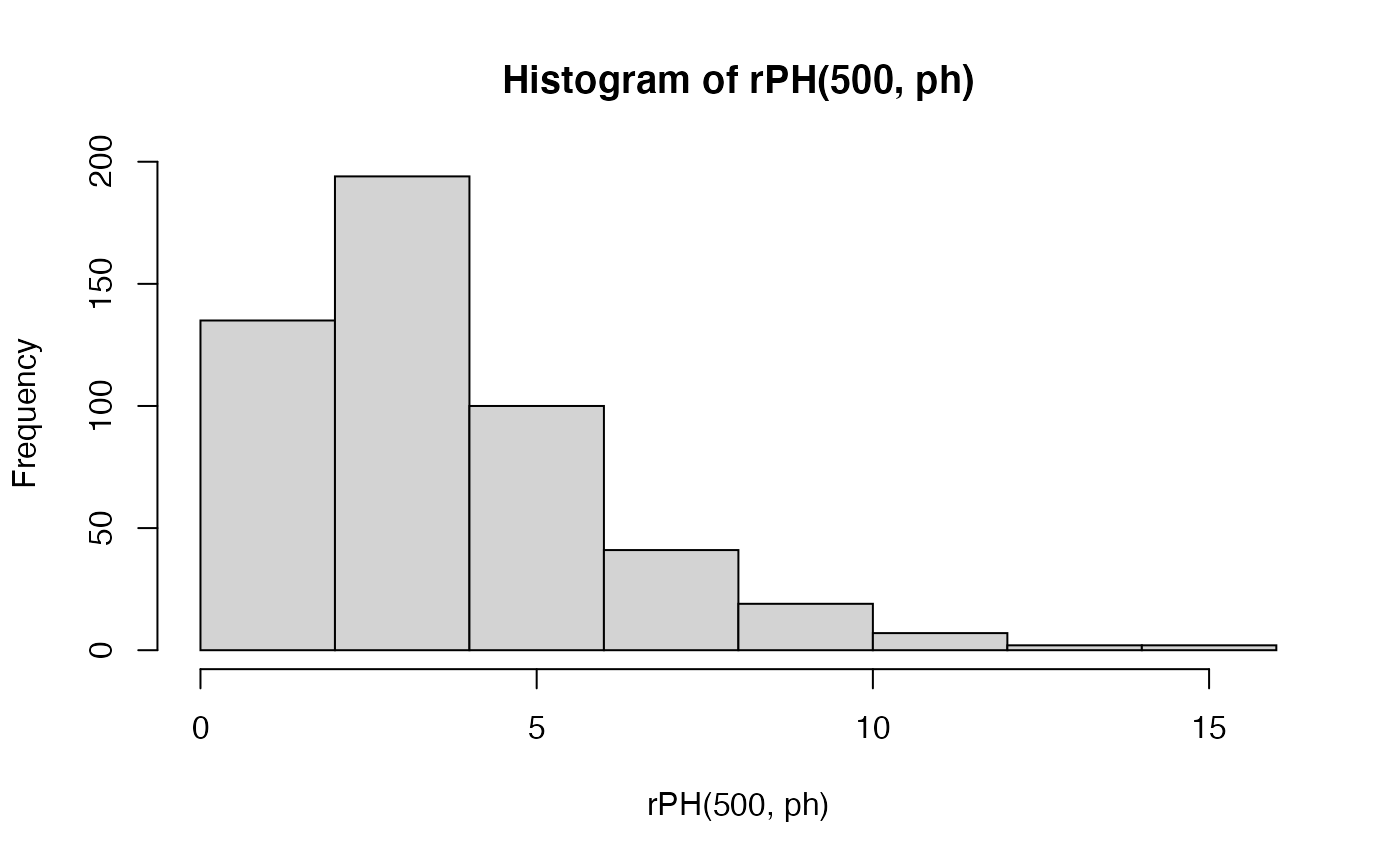
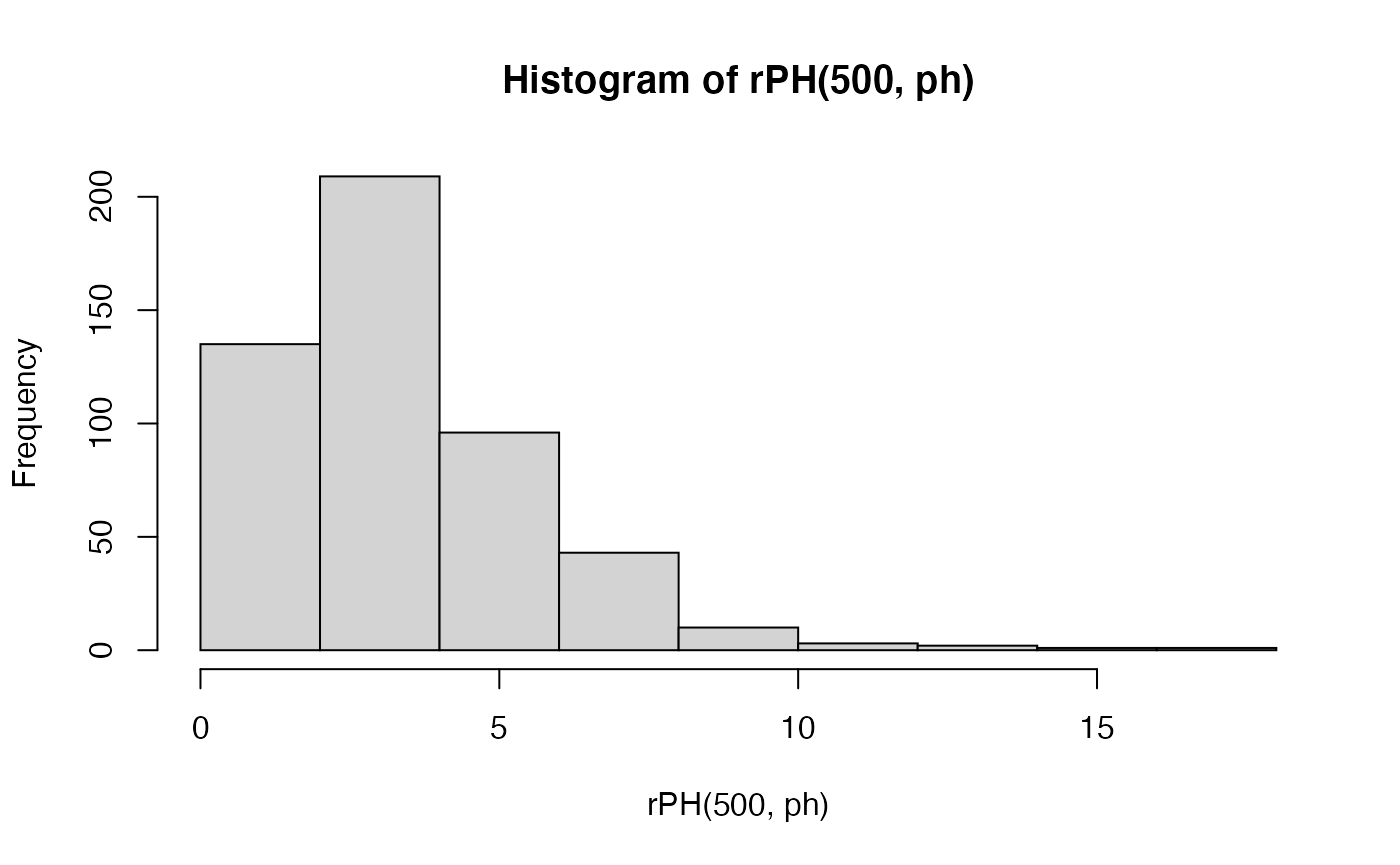
Update website

diff --git a/docs/reference/check_phase_type.html b/docs/reference/check_phase_type.html
@@ -6,7 +6,7 @@
 <meta http-equiv="X-UA-Compatible" content="IE=edge">
 <meta name="viewport" content="width=device-width, initial-scale=1.0">
 
-<title>Phase-type distribution to network — phase_type_to_network • PhaseTypeR</title>
+<title>Checking the basic phase-type assumptions — check_phase_type • PhaseTypeR</title>
 
 
 <!-- jquery -->
@@ -39,9 +39,9 @@
 
 
 
-<meta property="og:title" content="Phase-type distribution to network — phase_type_to_network" />
-<meta property="og:description" content="This function converts a phase-type distribution into an
-igraph graph object." />
+<meta property="og:title" content="Checking the basic phase-type assumptions — check_phase_type" />
+<meta property="og:description" content="This function checks whether all the elements for
+building a phase-type object have the right shape." />
 
 
 
@@ -127,35 +127,34 @@ igraph graph object." />
 <div class="row">
   <div class="col-md-9 contents">
     <div class="page-header">
-    <h1>Phase-type distribution to network</h1>
-    <small class="dont-index">Source: <a href='https://github.com/rivasiker/PhaseTypeR/blob/master/R/phase_type_to_network.R'><code>R/phase_type_to_network.R</code></a></small>
-    <div class="hidden name"><code>phase_type_to_network.Rd</code></div>
+    <h1>Checking the basic phase-type assumptions</h1>
+    <small class="dont-index">Source: <a href='https://github.com/rivasiker/PhaseTypeR/blob/master/R/check_phase_type.R'><code>R/check_phase_type.R</code></a></small>
+    <div class="hidden name"><code>check_phase_type.Rd</code></div>
     </div>
 
     <div class="ref-description">
-    <p>This function converts a phase-type distribution into an
-igraph graph object.</p>
+    <p>This function checks whether all the elements for
+building a phase-type object have the right shape.</p>
     </div>
 
-    <pre class="usage"><span class='fu'>phase_type_to_network</span><span class='op'>(</span><span class='va'>phase_type</span>, t <span class='op'>=</span> <span class='cn'>NULL</span><span class='op'>)</span></pre>
+    <pre class="usage"><span class='fu'>check_phase_type</span><span class='op'>(</span><span class='va'>subint_mat</span>, <span class='va'>init_probs</span><span class='op'>)</span></pre>
 
     <h2 class="hasAnchor" id="arguments"><a class="anchor" href="#arguments"></a>Arguments</h2>
     <table class="ref-arguments">
     <colgroup><col class="name" /><col class="desc" /></colgroup>
     <tr>
-      <th>phase_type</th>
-      <td><p>an object of class <code>disc_phase_type</code> or
-<code>cont_phase_type</code></p></td>
+      <th>subint_mat</th>
+      <td><p>Sub-intensity rate matrix.</p></td>
     </tr>
     <tr>
-      <th>t</th>
-      <td><p>NULL or numeric. Sampling time for the continuous phase-type distribution.</p></td>
+      <th>init_probs</th>
+      <td><p>Initial probability vector.</p></td>
     </tr>
     </table>
 
     <h2 class="hasAnchor" id="value"><a class="anchor" href="#value"></a>Value</h2>
 
-    <p>An igraph graph object of the phase-type distribution.</p>
+    <p>A list with the elements of a phase-type distribution.</p>
 
   </div>
   <div class="col-md-3 hidden-xs hidden-sm" id="pkgdown-sidebar">

diff --git a/docs/reference/generator_functions.html b/docs/reference/generator_functions.html
@@ -139,15 +139,15 @@ different phase-type distributions." />
 different phase-type distributions.</p>
     </div>
 
-    <pre class="usage"><span class='fu'>PH</span><span class='op'>(</span>subint_mat <span class='op'>=</span> <span class='cn'>NULL</span>, init_probs <span class='op'>=</span> <span class='cn'>NULL</span>, round_zero <span class='op'>=</span> <span class='cn'>NULL</span><span class='op'>)</span>
+    <pre class="usage"><span class='fu'>PH</span><span class='op'>(</span>subint_mat <span class='op'>=</span> <span class='cn'>NULL</span>, init_probs <span class='op'>=</span> <span class='cn'>NULL</span><span class='op'>)</span>
 
-<span class='fu'>DPH</span><span class='op'>(</span>subint_mat <span class='op'>=</span> <span class='cn'>NULL</span>, init_probs <span class='op'>=</span> <span class='cn'>NULL</span>, round_zero <span class='op'>=</span> <span class='cn'>NULL</span><span class='op'>)</span>
+<span class='fu'>DPH</span><span class='op'>(</span>subint_mat <span class='op'>=</span> <span class='cn'>NULL</span>, init_probs <span class='op'>=</span> <span class='cn'>NULL</span><span class='op'>)</span>
 
 <span class='fu'>MPH</span><span class='op'>(</span>subint_mat <span class='op'>=</span> <span class='cn'>NULL</span>, init_probs <span class='op'>=</span> <span class='cn'>NULL</span>,
-    reward_mat <span class='op'>=</span> <span class='cn'>NULL</span>, round_zero <span class='op'>=</span> <span class='cn'>NULL</span><span class='op'>)</span>
+    reward_mat <span class='op'>=</span> <span class='cn'>NULL</span><span class='op'>)</span>
 
 <span class='fu'>MDPH</span><span class='op'>(</span>subint_mat <span class='op'>=</span> <span class='cn'>NULL</span>, init_probs <span class='op'>=</span> <span class='cn'>NULL</span>,
-     reward_mat <span class='op'>=</span> <span class='cn'>NULL</span>, round_zero <span class='op'>=</span> <span class='cn'>NULL</span><span class='op'>)</span>
+     reward_mat <span class='op'>=</span> <span class='cn'>NULL</span><span class='op'>)</span>
 
 <span class='co'># S3 method for cont_phase_type</span>
 <span class='fu'><a href='https://rdrr.io/r/base/summary.html'>summary</a></span><span class='op'>(</span><span class='va'>object</span>, <span class='va'>...</span><span class='op'>)</span>
@@ -179,15 +179,6 @@ values between 0 and 1.</p></td>
       <td><p>a vector, a one-row matrix or <code>NULL</code> which gives the
 probabilities to start in each state. If <code>init_probs</code> is <code>NULL</code>,
 the probability to start on the first state will be 1 and 0 otherwise.</p></td>
-    </tr>
-    <tr>
-      <th>round_zero</th>
-      <td><p>an integer or <code>NULL</code>(default), which gives the
-decimal from which we should truncate the positive values of the
-sub-intensity matrix.
-It could be useful in the scenarios where there is a reward transformation
-leading to values with many decimals and potentially computational
-approximation and potentially to positive row sums in continuous phase-type.</p></td>
     </tr>
     <tr>
       <th>reward_mat</th>

diff --git a/docs/reference/check_reward.html b/docs/reference/check_reward.html
@@ -6,7 +6,7 @@
 <meta http-equiv="X-UA-Compatible" content="IE=edge">
 <meta name="viewport" content="width=device-width, initial-scale=1.0">
 
-<title>Phase-type distribution to network — phase_type_to_network • PhaseTypeR</title>
+<title>Checking reward matrix — check_reward • PhaseTypeR</title>
 
 
 <!-- jquery -->
@@ -39,9 +39,9 @@
 
 
 
-<meta property="og:title" content="Phase-type distribution to network — phase_type_to_network" />
-<meta property="og:description" content="This function converts a phase-type distribution into an
-igraph graph object." />
+<meta property="og:title" content="Checking reward matrix — check_reward" />
+<meta property="og:description" content="This function checks whether the shape of the reward
+matrix is correct." />
 
 
 
@@ -127,35 +127,31 @@ igraph graph object." />
 <div class="row">
   <div class="col-md-9 contents">
     <div class="page-header">
-    <h1>Phase-type distribution to network</h1>
-    <small class="dont-index">Source: <a href='https://github.com/rivasiker/PhaseTypeR/blob/master/R/phase_type_to_network.R'><code>R/phase_type_to_network.R</code></a></small>
-    <div class="hidden name"><code>phase_type_to_network.Rd</code></div>
+    <h1>Checking reward matrix</h1>
+    <small class="dont-index">Source: <a href='https://github.com/rivasiker/PhaseTypeR/blob/master/R/check_phase_type.R'><code>R/check_phase_type.R</code></a></small>
+    <div class="hidden name"><code>check_reward.Rd</code></div>
     </div>
 
     <div class="ref-description">
-    <p>This function converts a phase-type distribution into an
-igraph graph object.</p>
+    <p>This function checks whether the shape of the reward
+matrix is correct.</p>
     </div>
 
-    <pre class="usage"><span class='fu'>phase_type_to_network</span><span class='op'>(</span><span class='va'>phase_type</span>, t <span class='op'>=</span> <span class='cn'>NULL</span><span class='op'>)</span></pre>
+    <pre class="usage"><span class='fu'>check_reward</span><span class='op'>(</span><span class='va'>reward_mat</span>, <span class='va'>init_probs</span><span class='op'>)</span></pre>
 
     <h2 class="hasAnchor" id="arguments"><a class="anchor" href="#arguments"></a>Arguments</h2>
     <table class="ref-arguments">
     <colgroup><col class="name" /><col class="desc" /></colgroup>
     <tr>
-      <th>phase_type</th>
-      <td><p>an object of class <code>disc_phase_type</code> or
-<code>cont_phase_type</code></p></td>
+      <th>reward_mat</th>
+      <td><p>Reward matrix</p></td>
     </tr>
     <tr>
-      <th>t</th>
-      <td><p>NULL or numeric. Sampling time for the continuous phase-type distribution.</p></td>
+      <th>init_probs</th>
+      <td><p>Initial probability vector.</p></td>
     </tr>
     </table>
 
-    <h2 class="hasAnchor" id="value"><a class="anchor" href="#value"></a>Value</h2>
-
-    <p>An igraph graph object of the phase-type distribution.</p>
 
   </div>
   <div class="col-md-3 hidden-xs hidden-sm" id="pkgdown-sidebar">

diff --git a/docs/articles/PhaseTypeR.html b/docs/articles/PhaseTypeR.html
@@ -165,7 +165,7 @@
                               <span class="fl">1.5</span>, <span class="op">-</span><span class="fl">1</span>, <span class="fl">0</span>,
                               <span class="fl">0</span>, <span class="fl">1</span>, <span class="op">-</span><span class="fl">0.5</span><span class="op">)</span>, ncol <span class="op">=</span> <span class="fl">3</span><span class="op">)</span>
 <span class="fu"><a href="../reference/generator_functions.html">PH</a></span><span class="op">(</span><span class="va">subintensity_matrix</span><span class="op">)</span>
-<span class="co">#&gt; Warning in check_phase_type(subint_mat, init_probs, reward_mat = NULL, round_zero): </span>
+<span class="co">#&gt; Warning in check_phase_type(subint_mat, init_probs): </span>
 <span class="co">#&gt;  The initial probability vector is automatically generated.</span>
 <span class="co">#&gt; $subint_mat</span>
 <span class="co">#&gt;      [,1] [,2] [,3]</span>
@@ -313,8 +313,8 @@ F(u) = 1-\boldsymbol{\pi}e^{\boldsymbol{T}u}\boldsymbol{e}, \quad u\ge0.
 <div class="sourceCode" id="cb12"><pre class="downlit sourceCode r">
 <code class="sourceCode R"><span class="fu"><a href="https://rdrr.io/r/base/cat.html">cat</a></span><span class="op">(</span><span class="st">'10 random samples: \n'</span>, <span class="fu"><a href="../reference/PH_functions.html">rPH</a></span><span class="op">(</span><span class="fl">5</span>, <span class="va">ph</span><span class="op">)</span>, <span class="st">'\n'</span>, <span class="fu"><a href="../reference/PH_functions.html">rPH</a></span><span class="op">(</span><span class="fl">5</span>, <span class="va">ph</span><span class="op">)</span><span class="op">)</span>
 <span class="co">#&gt; 10 random samples: </span>
-<span class="co">#&gt;  1.42595 0.7506285 4.40159 1.195044 2.288258 </span>
-<span class="co">#&gt;  6.496062 3.226187 1.713949 1.84615 1.949642</span></code></pre></div>
+<span class="co">#&gt;  1.251466 3.235075 0.9331918 4.927806 2.184059 </span>
+<span class="co">#&gt;  1.330534 3.575385 2.573869 2.845134 6.107988</span></code></pre></div>
 <p>Here is a histogram of 200 samples from the phase-type distribution:</p>
 <div class="sourceCode" id="cb13"><pre class="downlit sourceCode r">
 <code class="sourceCode R"><span class="fu"><a href="https://rdrr.io/r/graphics/hist.html">hist</a></span><span class="op">(</span><span class="fu"><a href="../reference/PH_functions.html">rPH</a></span><span class="op">(</span><span class="fl">500</span>, <span class="va">ph</span><span class="op">)</span>, breaks <span class="op">=</span> <span class="fl">10</span><span class="op">)</span></code></pre></div>

diff --git a/docs/reference/reward_phase_type.html b/docs/reference/reward_phase_type.html
@@ -137,7 +137,7 @@ non-negative reward vector." />
 non-negative reward vector.</p>
     </div>
 
-    <pre class="usage"><span class='fu'>reward_phase_type</span><span class='op'>(</span><span class='va'>phase_type</span>, <span class='va'>reward</span>, round_zero <span class='op'>=</span> <span class='cn'>NULL</span><span class='op'>)</span></pre>
+    <pre class="usage"><span class='fu'>reward_phase_type</span><span class='op'>(</span><span class='va'>phase_type</span>, <span class='va'>reward</span><span class='op'>)</span></pre>
 
     <h2 class="hasAnchor" id="arguments"><a class="anchor" href="#arguments"></a>Arguments</h2>
     <table class="ref-arguments">
@@ -156,15 +156,6 @@ For <code>disc_phase_type</code> object, it could also be a matrix with as many
 rows as states and as many columns as the maximum values of reward plus one.
 Also in this case, each cell of the matrix should be probabilities and the
 sum of the rows should sum up to one.</p></td>
-    </tr>
-    <tr>
-      <th>round_zero</th>
-      <td><p>is a positive integer or <code>NULL</code>, if it is a positive
-integer, all the values in the subintensity matrix and initial probabilities
-will be truncate at the corresponding decimal. It can be useful if
-the computational approximation of some values leads the row
-sums of the subintensity  matrix to be higher than 1 or smaller than 0 for
-discrete cases, or higher than 0 for continuous cases.</p></td>
     </tr>
     </table>
 
@@ -198,9 +189,6 @@ Hobolth, A., Bladt, M. &amp; Andersen, L.A. (2021). *Multivariate phase-type the
     <h2 class="hasAnchor" id="see-also"><a class="anchor" href="#see-also"></a>See also</h2>
 
     <div class='dont-index'><p><code><a href='generator_functions.html'>PH</a></code>, <code><a href='generator_functions.html'>DPH</a></code></p></div>
-    <h2 class="hasAnchor" id="author"><a class="anchor" href="#author"></a>Author</h2>
-
-    <p>C. Guetemme, A. Hobolth</p>
 
     <h2 class="hasAnchor" id="examples"><a class="anchor" href="#examples"></a>Examples</h2>
     <pre class="examples"><div class='input'><span class='co'>##===========================##</span>

diff --git a/docs/articles/pop_gen_iker.html b/docs/articles/pop_gen_iker.html
@@ -402,7 +402,7 @@ T_{total} = T_{MRCA} \circ [n, n-1, ..., 2]
 <p>And we can also define a continuous phase-type representation of this process:</p>
 <div class="sourceCode" id="cb24"><pre class="downlit sourceCode r">
 <code class="sourceCode R"><span class="va">kingman_4</span> <span class="op">&lt;-</span> <span class="fu"><a href="../reference/generator_functions.html">PH</a></span><span class="op">(</span><span class="va">subint_itons_4</span><span class="op">)</span>
-<span class="co">#&gt; Warning in check_phase_type(subint_mat, init_probs, reward_mat = NULL, round_zero): </span>
+<span class="co">#&gt; Warning in check_phase_type(subint_mat, init_probs): </span>
 <span class="co">#&gt;  The initial probability vector is automatically generated.</span>
 <span class="va">kingman_4</span>
 <span class="co">#&gt; $subint_mat</span>
@@ -688,7 +688,7 @@ T_{total} = T_{MRCA} \circ [n, n-1, ..., 2]
 <div class="sourceCode" id="cb43"><pre class="downlit sourceCode r">
 <code class="sourceCode R"><span class="va">Y_i_phase_type</span> <span class="op">&lt;-</span> <span class="fu"><a href="../reference/generator_functions.html">MPH</a></span><span class="op">(</span>subint_mat <span class="op">=</span> <span class="va">subint_itons_4</span>, 
                       reward_mat <span class="op">=</span> <span class="va">reward_mat_4</span><span class="op">)</span>
-<span class="co">#&gt; Warning in check_phase_type(subint_mat, init_probs, reward_mat, round_zero): </span>
+<span class="co">#&gt; Warning in check_phase_type(subint_mat, init_probs): </span>
 <span class="co">#&gt;  The initial probability vector is automatically generated.</span>
 <span class="va">Y_i_phase_type</span>
 <span class="co">#&gt; $subint_mat</span>

diff --git a/docs/reference/mean.html b/docs/reference/mean.html
@@ -171,6 +171,11 @@ distributions, represented by the <code>cont_phase_type</code>,
     </tr>
     </table>
 
+    <h2 class="hasAnchor" id="value"><a class="anchor" href="#value"></a>Value</h2>
+
+    <p>This function returns a single value for the mean of univariate phase-type
+distributions, or a vector of means for each reward-transformed distribution
+of the multivariate phaset-type distributions.</p>
     <h2 class="hasAnchor" id="details"><a class="anchor" href="#details"></a>Details</h2>
 
     <p>For the univariate case (<code>cont_phase_type</code> and <code>disc_phase_type</code>),

diff --git a/docs/reference/MDPH_functions.html b/docs/reference/MDPH_functions.html
@@ -171,7 +171,8 @@ the number required.</p></td>
 
     <p><code>dMDPH</code> gives the density, <code>pMDPH</code> gives the
 distribution function, <code>qMDPH</code> gives the quantile function,
-and <code>rMDPH</code> generates random deviates.</p>
+and <code>rMDPH</code> generates random deviates. <code>rFullMDPH</code> returns
+the full path of a random draw from the distribution.</p>
 <p>The length of the result is determined by <code>n</code> for <code>rMDPH</code>,
 and is the maximum of the lengths of the numerical arguments for the other
 functions.</p>

diff --git a/docs/reference/DPH_functions.html b/docs/reference/DPH_functions.html
@@ -171,7 +171,8 @@ the number required.</p></td>
 
     <p><code>dDPH</code> gives the density, <code>pDPH</code> gives the
 distribution function, <code>qDPH</code> gives the quantile function,
-and <code>rDPH</code> generates random deviates.</p>
+and <code>rDPH</code> generates random deviates. <code>rFullDPH</code> returns
+the full path of a random draw from the distribution.</p>
 <p>The length of the result is determined by <code>n</code> for <code>rDPH</code>,
 and is the maximum of the lengths of the numerical arguments for the other
 functions.</p>

diff --git a/docs/reference/MPH_functions.html b/docs/reference/MPH_functions.html
@@ -171,7 +171,8 @@ the number required.</p></td>
 
     <p><code>dMPH</code> gives the density, <code>pMPH</code> gives the
 distribution function, <code>qMPH</code> gives the quantile function,
-and <code>rMPH</code> generates random deviates.</p>
+and <code>rMPH</code> generates random deviates. <code>rFullMPH</code> returns
+the full path of a random draw from the distribution.</p>
 <p>The length of the result is determined by <code>n</code> for <code>rMPH</code>,
 and is the maximum of the lengths of the numerical arguments for the other
 functions.</p>

diff --git a/docs/reference/PH_functions.html b/docs/reference/PH_functions.html
@@ -171,7 +171,8 @@ the number required.</p></td>
 
     <p><code>dPH</code> gives the density, <code>pPH</code> gives the
 distribution function, <code>qPH</code> gives the quantile function,
-and <code>rPH</code> generates random deviates.</p>
+and <code>rPH</code> generates random deviates. <code>rFullPH</code> returns
+the full path of a random draw from the distribution.</p>
 <p>The length of the result is determined by <code>n</code> for <code>rPH</code>,
 and is the maximum of the lengths of the numerical arguments for the other
 functions.</p>

diff --git a/docs/reference/var.html b/docs/reference/var.html
@@ -171,6 +171,10 @@ distributions, represented by the <code>cont_phase_type</code>,
     </tr>
     </table>
 
+    <h2 class="hasAnchor" id="value"><a class="anchor" href="#value"></a>Value</h2>
+
+    <p>The value returned is either the variance (for univariate
+distributions) or the variance-covariance matrix (for multvariate distributions).</p>
     <h2 class="hasAnchor" id="details"><a class="anchor" href="#details"></a>Details</h2>
 
     <p>For  the univariate case (<code>cont_phase_type</code> and <code>disc_phase_type</code>),
